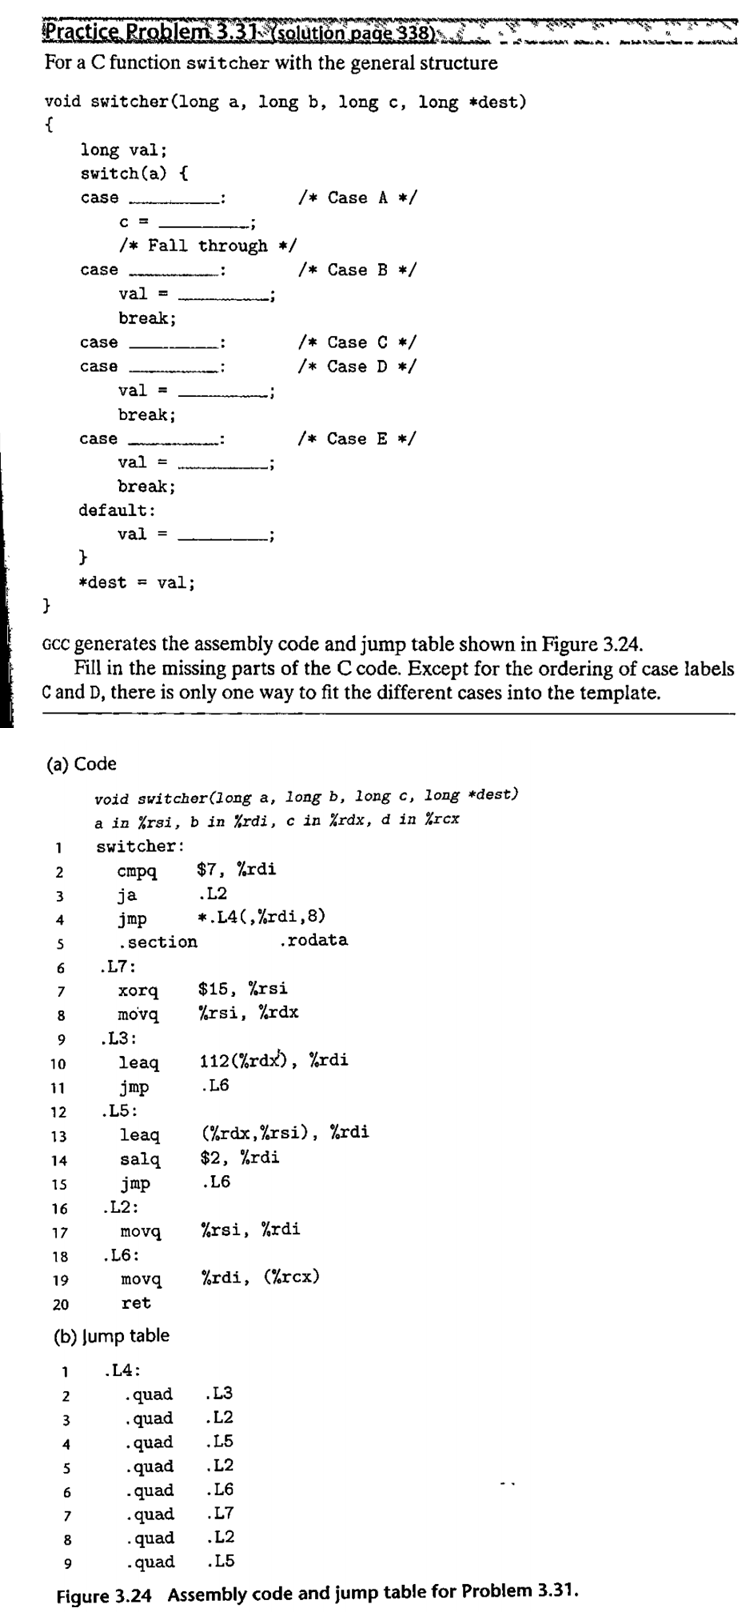
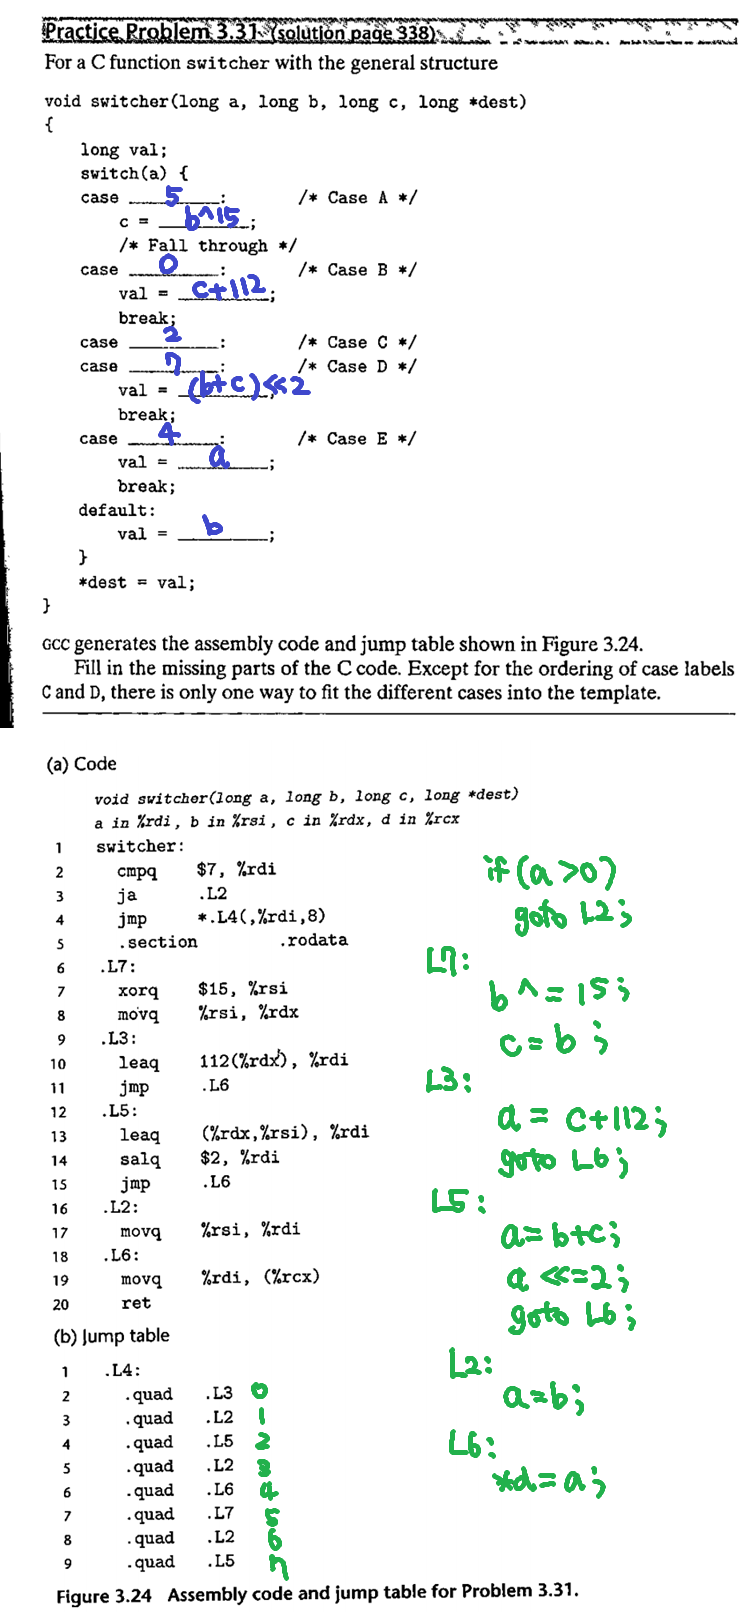
feat: Update CS:APP Ch3

diff --git a/_posts/computer-system/csapp/2026-06-03-csapp-chapter-3.md b/_posts/computer-system/csapp/2026-06-03-csapp-chapter-3.md
@@ -824,6 +824,41 @@ A **jump table** is an array where entry `i` is the address of a code segment im
 
 The advantage of using a jump table over a long sequence of if-else statement is that the time taken to perform the switch is independent of the number of switch cases.
 
+## 3.7 Procedures
+**Procedures** provide a way to package code that implements some functionality with a designated set of arguments and an optional return value.
+
+Suppose procedure `P` calls procedure `Q`, and `Q` then executes and returns back to `P`. These actions involve one or more of the following mechanisms:
+
+* **Passing Control**: The program counter must be set to the starting address of the code for `Q` upon entry, and then set to the instruction in `P` following the call to `Q` upon return.
+* **Passing Data**: `P` must be able to provide one or more parameters to `Q`, and `Q` must be able to return a value back to `P`.
+* **Allocating and Deallocating Memory**: `Q` may need to allocate space for local variables when it begins and then free that storage before it returns.
+
+### 3.7.1 The Run-Time Stack
+For the procedure-calling mechanism, most languages including C can make use of LIFO memory management discipline provided by a stack data structure. As `P` calls `Q`, control and data information are added to the end of the stack. While `Q` is executing, `P`, along with any of the procedures in the chain of calls up to `P`, is temporarily suspended. When `Q` returns, any local storage it has allocated can be freed. The control and data information at the end of the stack gets deallocated when `P` returns.
+
+The x86-64 stack grows toward lower addresses and the stack pointer `%rsp` points to the top element of the stack. Data can be stored on and retrieved from the stack using the `pushq` and `popq` instructions.
+
+![3-25](3-25.png)
+
+* The frame for the currently executing procedure is always at the top of the stack.
+* When procedure `P` calls procedure `Q`, it will push the return address onto the stack.
+* The code for `Q` allocates the space required for its stack frames by extending the current stack boundary. Within that space, it can save the values of registers, allocate space for local variables, and set up arguments for the procedures it calls.
+* The stack frames for most procedures are of fixed size, allocated at the beginning of the procedure. Some procedures, however, requires variable-size frames.
+* Procedure `P` can pass up to six integral values (i.e., pointers and integers) on the stack, but if `Q` requires more arguments, these can be stored by `P` within its stack frame prior to the call.
+* x86-64 procedures allocate only the portions of the stack frames they require.
+
+### 3.7.2 Control Transfer
+Passing control from function `P` to function `Q` involves simply setting the program counter (PC) to the starting address of the code for `Q`. For `Q` to return, x86-64 machines use the instruction `call Q` to record the code location where it should resume the execution of `P`.
+
+![call](call.png)
+
+* `call`: Pushes the return address `A` onto the stack and sets the PC to the beginning of `Q`. It can be either direct or indirect.
+* `ret`: Pops an address `A` off the stack and sets the PC to `A`.
+
+(They are referred to as `callq` and `retq` in the disassembly outputs generated by the program `OBJDUMP`. The added suffix 'q' simply emphasizes that these are x86-64 versions of call and return instructions, not IA32. In x86-64 assembly code, both versions can be used interchangeably.)
+
+
+
 ---
 
 ## Problems
